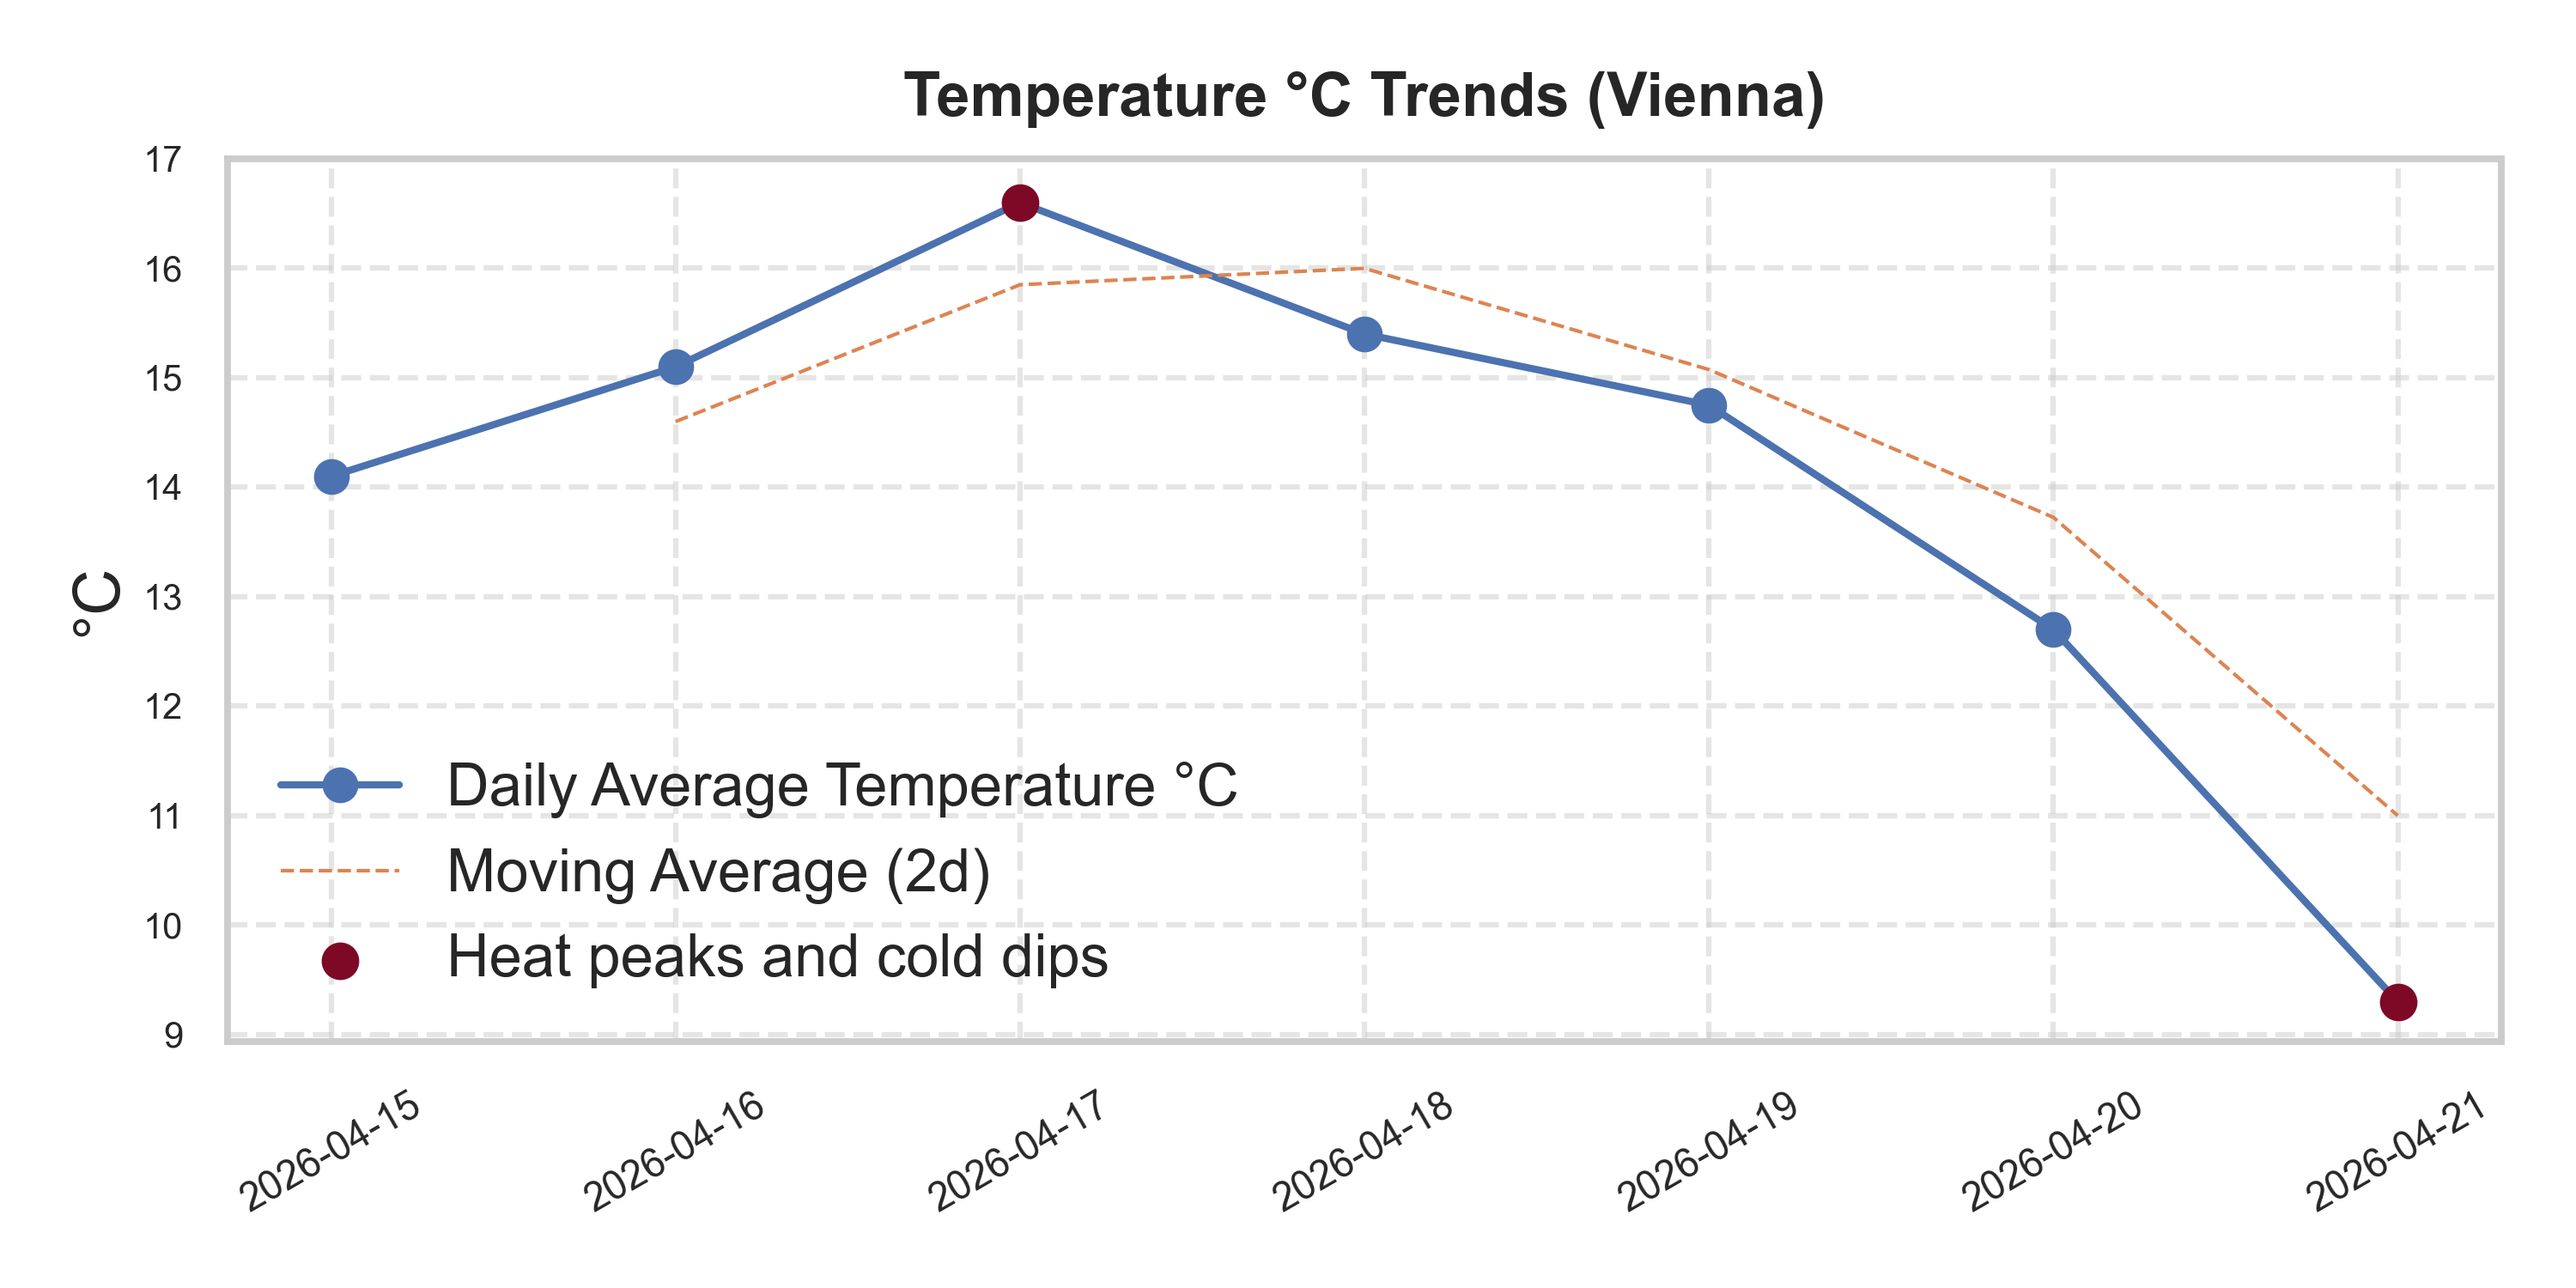
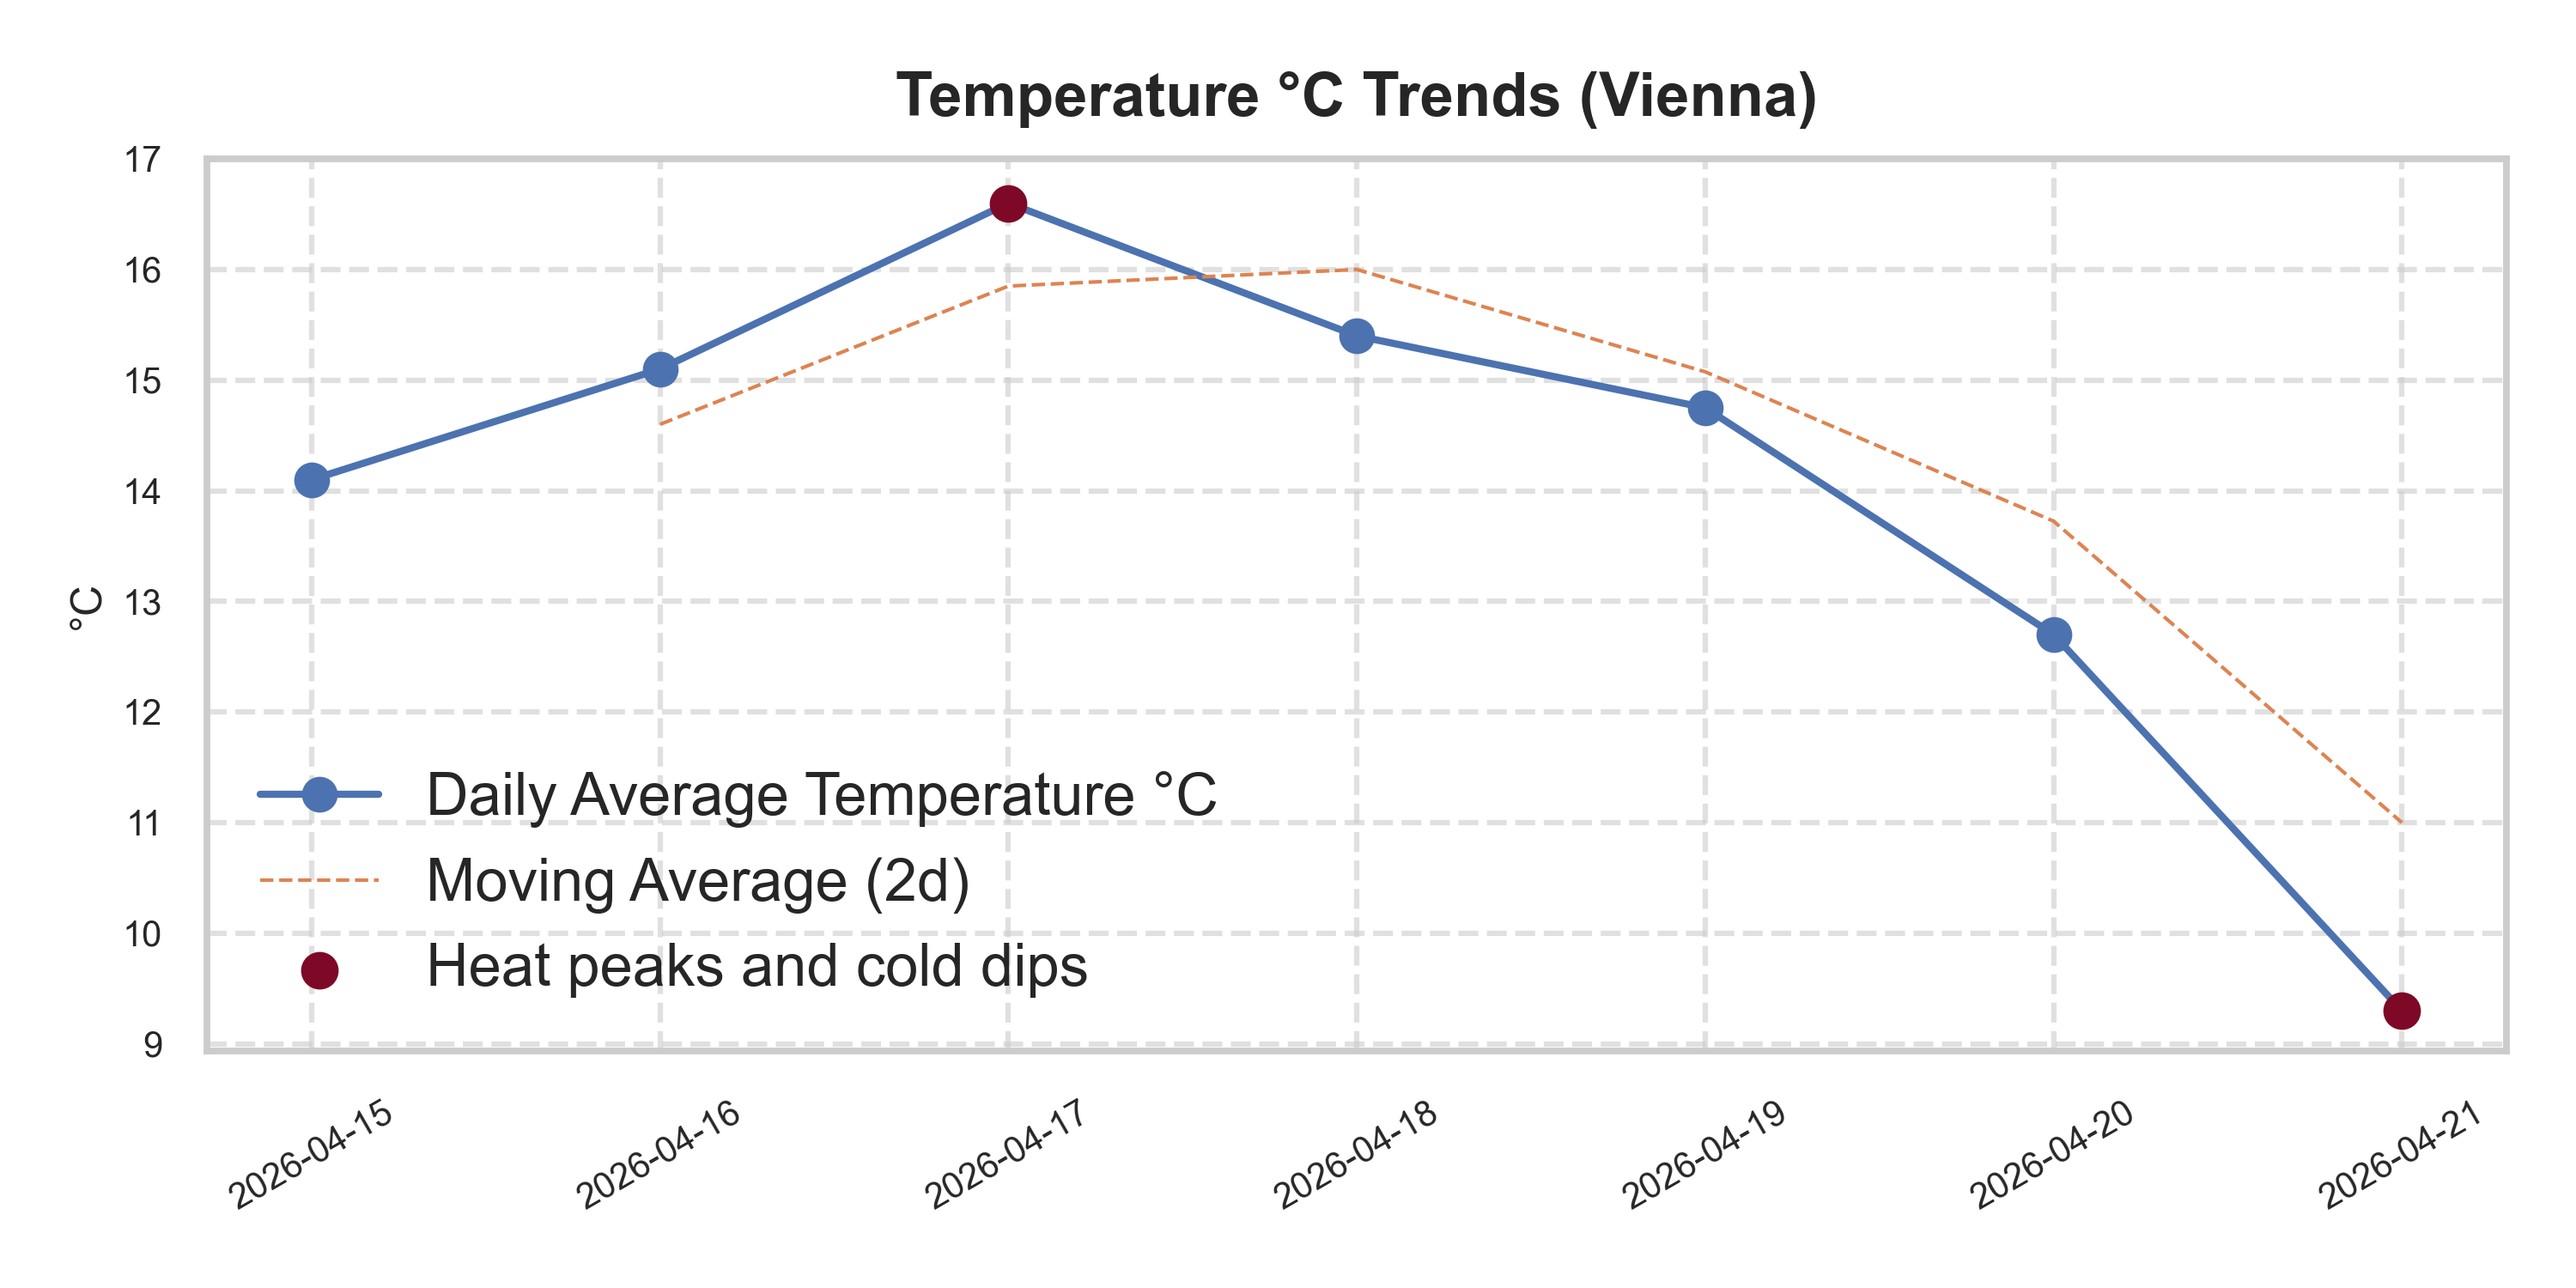
Refactor plot functions for consistent date labeling

diff --git a/src/visualization.py b/src/visualization.py
@@ -9,14 +9,11 @@ sns.set_palette("deep")
 def plot_weather(df):
     fig, ax = plt.subplots(figsize=(10, 5))
 
-    ax.set_xticks(range(len(df)))
-    ax.set_xticklabels(df["date_str"], fontsize=11, rotation=30)
-
-    ax.plot(df["date"], df["temp_max"], label="Max Temperature °C", marker='o', linewidth=2)
-    ax.plot(df["date"], df["temp_min"], label="Min Temperature °C", marker='o', linewidth=2)
+    ax.plot(df["date_str"], df["temp_max"], label="Max Temperature °C", marker='o', linewidth=2)
+    ax.plot(df["date_str"], df["temp_min"], label="Min Temperature °C", marker='o', linewidth=2)
 
     ax.set_title("Daily Temperature °C (Vienna)", fontsize=17, pad=12, weight="bold")
-    ax.set_ylabel("°C")
+    ax.set_ylabel("°C", fontsize=12)
 
     y_min = int(df["temp_min"].min())
     y_max = int(df["temp_max"].max())
@@ -25,8 +22,9 @@ def plot_weather(df):
     ax.tick_params(axis='y', labelsize=10)
 
     ax.legend(frameon=False)
-    ax.grid(True, linestyle='--', alpha=0.5)
+    ax.grid(True, linestyle='--', alpha=0.6)
 
+    plt.xticks(fontsize=10, rotation=30)
     plt.tight_layout()
     plt.savefig("outputs/weather_data.png", dpi=300)
     plt.close(fig)
@@ -37,10 +35,10 @@ def plot_precipitation(df):
 
     width = 0.35
 
-    ax.bar(df["date"], df["precipitation"], width)
+    ax.bar(df["date_str"], df["precipitation"], width)
 
     ax.set_title("Daily Precipitation (Vienna)", fontsize=17, pad=12, weight="bold")
-    ax.set_ylabel("mm")
+    ax.set_ylabel("mm", fontsize=12)
 
     y_max = int(df["precipitation"].max()) + 2
 
@@ -48,9 +46,9 @@ def plot_precipitation(df):
 
     ax.tick_params(axis='y', labelsize=10)
 
-    ax.grid(True, linestyle='--', alpha=0.5)
+    ax.grid(True, linestyle='--', alpha=0.6)
 
-    plt.xticks(fontsize=11, rotation=30)
+    plt.xticks(fontsize=10, rotation=30)
     plt.tight_layout()
     plt.savefig("outputs/precipitation.png", dpi=300)
     plt.close(fig)
@@ -61,13 +59,13 @@ def plot_temperature_with_ma(df):
 
     y = np.arange(-10, 41, 5)
 
-    ax.plot(df["date"], df["temp_avg"], label="Daily Average Temperature °C", linewidth=2, marker='o')
-    ax.plot(df["date"], df["temp_ma"], label="Moving Average (2d)", linewidth=1, linestyle='--')
+    ax.plot(df["date_str"], df["temp_avg"], label="Daily Average Temperature °C", linewidth=2, marker='o')
+    ax.plot(df["date_str"], df["temp_ma"], label="Moving Average (2d)", linewidth=1, linestyle='--')
 
     anomalies = df[df["anomaly"]]
 
     ax.scatter(
-        anomalies["date"],
+        anomalies["date_str"],
         anomalies["temp_avg"],
         color="#7d0926",
         label="Heat peaks and cold dips",
@@ -75,7 +73,7 @@ def plot_temperature_with_ma(df):
     )
 
     ax.set_title("Temperature °C Trends (Vienna)", fontsize=17, pad=12, weight="bold")
-    ax.set_ylabel("°C")
+    ax.set_ylabel("°C", fontsize=12)
 
     y_min = int(df["temp_avg"].min())
     y_max = int(df["temp_avg"].max())
@@ -85,9 +83,9 @@ def plot_temperature_with_ma(df):
     ax.tick_params(axis='y', labelsize=10)
 
     ax.legend(frameon=False)
-    ax.grid(True, linestyle='--', alpha=0.5)
+    ax.grid(True, linestyle='--', alpha=0.6)
 
-    plt.xticks(fontsize=11, rotation=30)
+    plt.xticks(fontsize=10, rotation=30)
     plt.tight_layout()
     plt.savefig("outputs/temp_trend.png", dpi=300)
     plt.close(fig)
